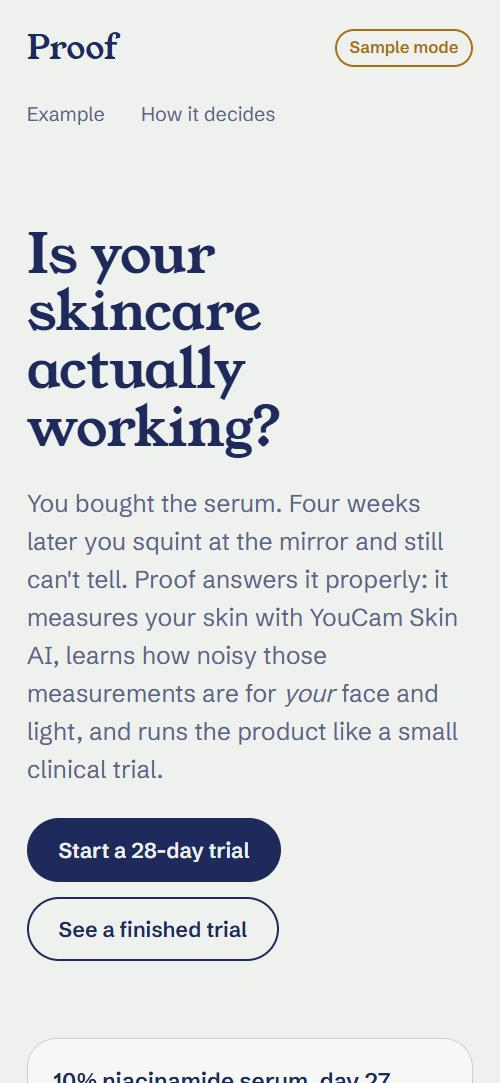
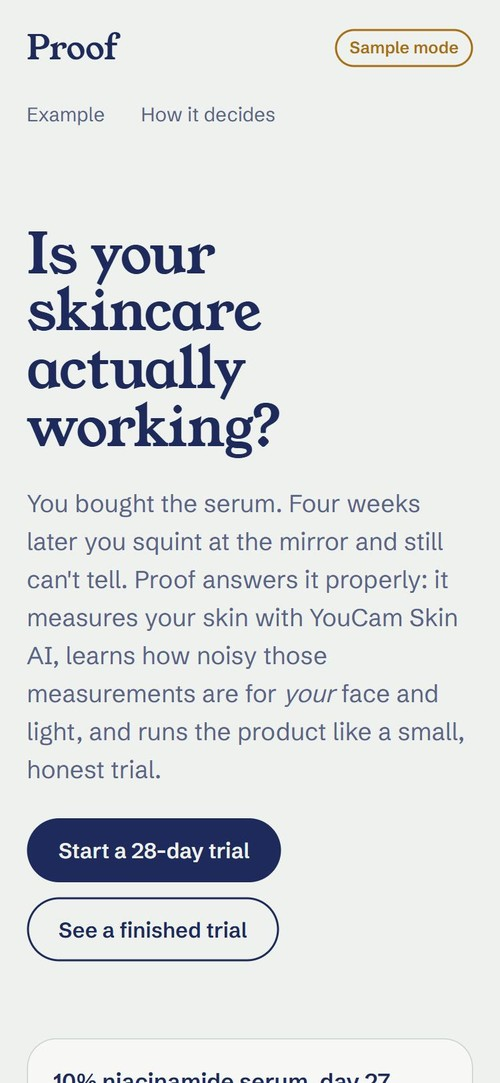
Home and method copy: 'small trial', not 'clinical trial', since there is no control group

diff --git a/public/app.js b/public/app.js
@@ -151,7 +151,7 @@ async function viewHome() {
   shell(`
     <section class="hero">
       <h1>Is your skincare actually working?</h1>
-      <p class="lede">You bought the serum. Four weeks later you squint at the mirror and still can't tell. Proof answers it properly: it measures your skin with YouCam Skin AI, learns how noisy those measurements are for <em>your</em> face and light, and runs the product like a small clinical trial.</p>
+      <p class="lede">You bought the serum. Four weeks later you squint at the mirror and still can't tell. Proof answers it properly: it measures your skin with YouCam Skin AI, learns how noisy those measurements are for <em>your</em> face and light, and runs the product like a small, honest trial.</p>
       <div class="actions">
         <a class="btn btn-primary" href="#/new">Start a 28-day trial</a>
         <a class="btn btn-quiet" href="#/example">See a finished trial</a>
@@ -638,7 +638,7 @@ function viewMethod() {
   shell(`
     <article class="method">
       <h1>How Proof decides</h1>
-      <p class="lede">A mirror compares today with a fuzzy memory. A before/after selfie compares two noisy numbers. Proof does what a clinical trial does, scaled down to one person.</p>
+      <p class="lede">A mirror compares today with a fuzzy memory. A before/after selfie compares two noisy numbers. Proof borrows the parts of a clinical trial that work for one person: a question set in advance, measured noise, and no peeking.</p>
 
       <h2>YouCam is the instrument</h2>
       <p>Every photo goes to YouCam Skin AI (<code>POST /s2s/v2.0/task/skin-analysis</code>), which scores ${config.concerns.length} concerns from 1 to 100. YouCam returns two numbers per concern. The <code>ui_score</code> is adjusted upward on purpose to feel encouraging; the <code>raw_score</code> is what the model actually measured. Proof only does statistics on <code>raw_score</code>, because an encouraging transform would hide real changes.</p>

diff --git a/public/index.html b/public/index.html
@@ -4,7 +4,7 @@
     <meta charset="utf-8">
     <meta name="viewport" content="width=device-width, initial-scale=1, viewport-fit=cover">
     <title>Proof: is your skincare working?</title>
-    <meta name="description" content="Run your skincare like a clinical trial. Proof measures your skin with YouCam Skin AI, calibrates the noise, and tells you per concern whether the product is working.">
+    <meta name="description" content="Test your skincare like a small trial on your own face. Proof measures your skin with YouCam Skin AI, calibrates the noise, and tells you per concern what changed since you started.">
     <meta name="theme-color" content="#EEF1EE" media="(prefers-color-scheme: light)">
     <meta name="theme-color" content="#151A33" media="(prefers-color-scheme: dark)">
     <link rel="icon" href="/icon.svg" type="image/svg+xml">
